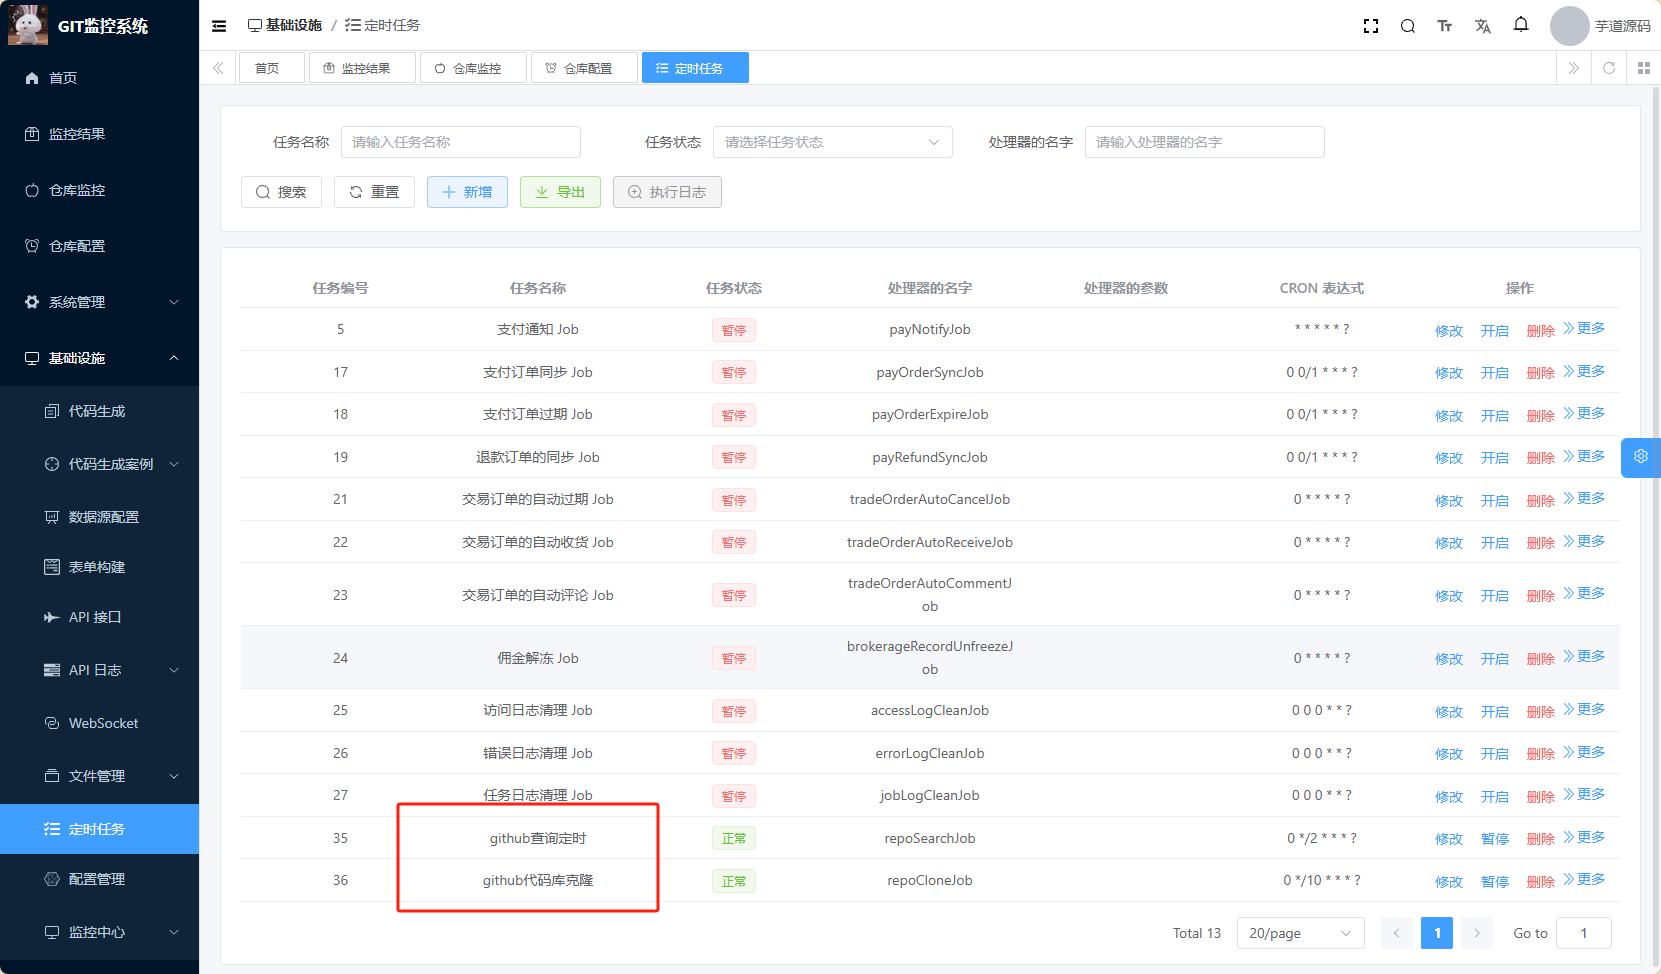
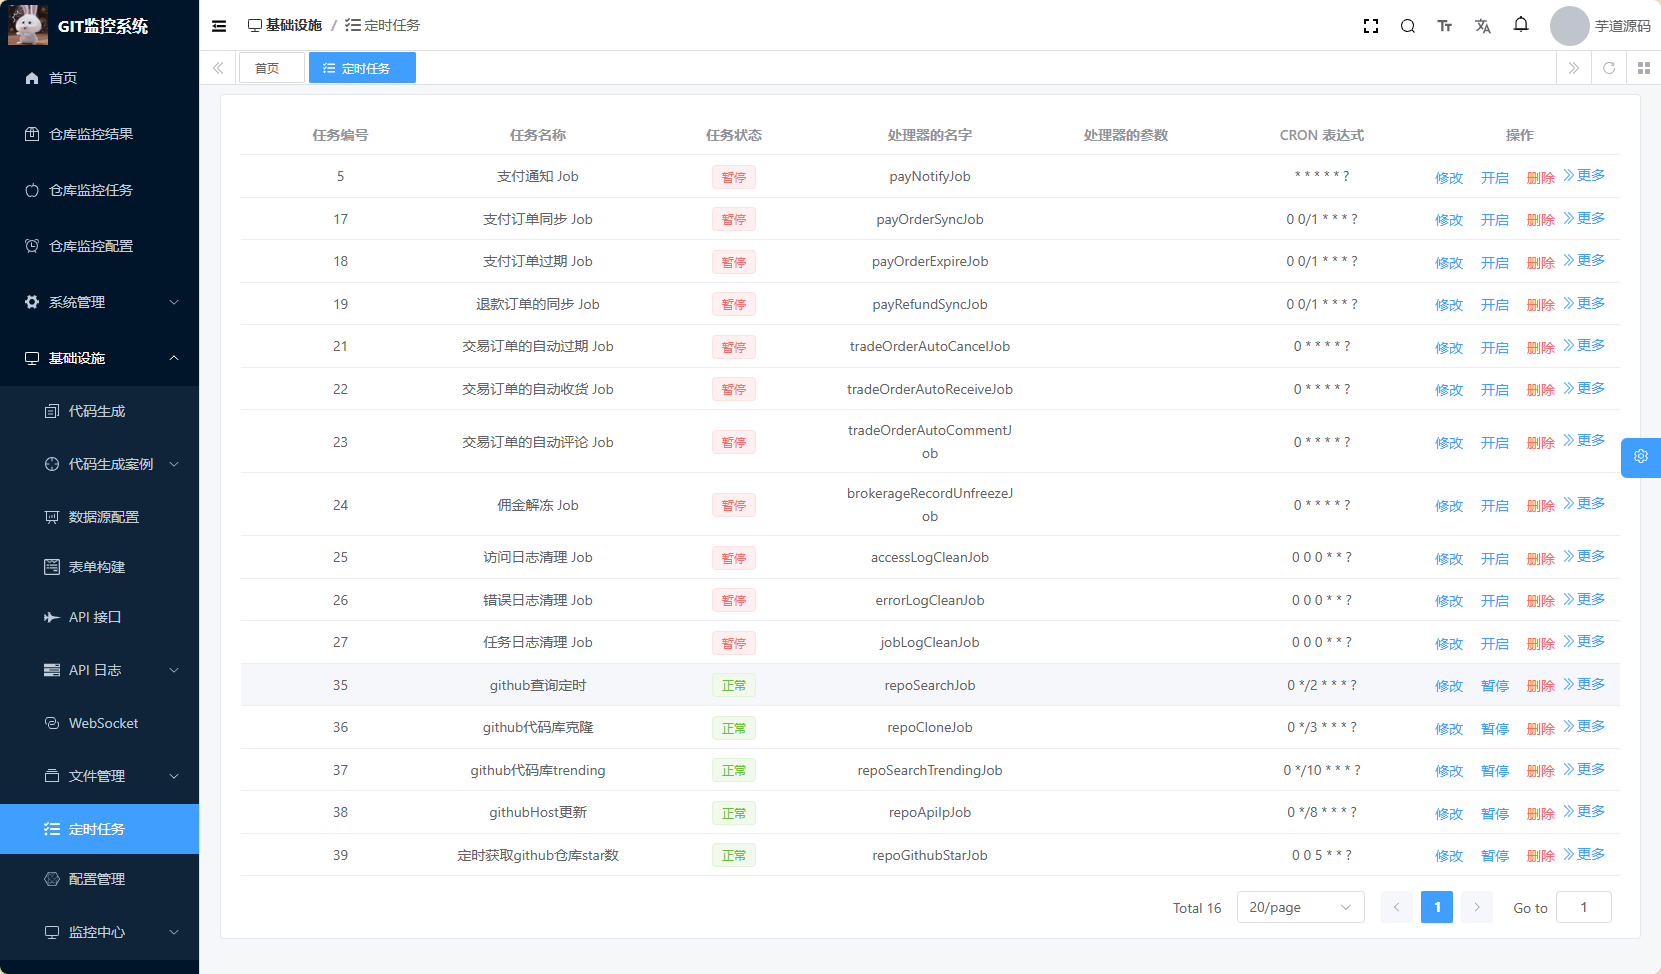
* README.md

diff --git a/README.md b/README.md
@@ -25,7 +25,7 @@ test/123456
 6. **自动更新github dns ip至hosts**
 6. **github 仓库readme展示**
 6. **增加标签和归档**
-6. **TODO 增加获取star数**
+6. **增加获取star数**
 ## 截图
 1. ![仓库配置.png](/image/仓库配置.png)
 2. ![仓库监控.png](/image/仓库监控.png)
